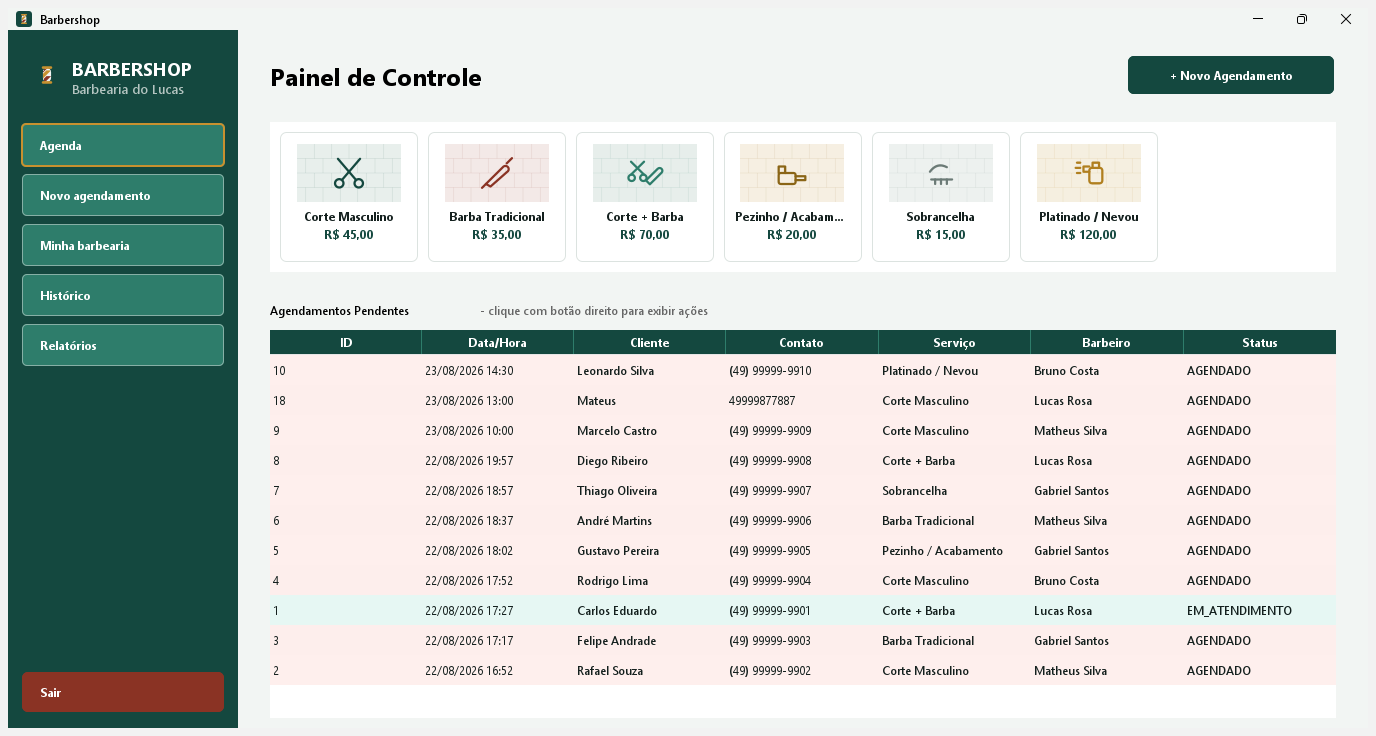
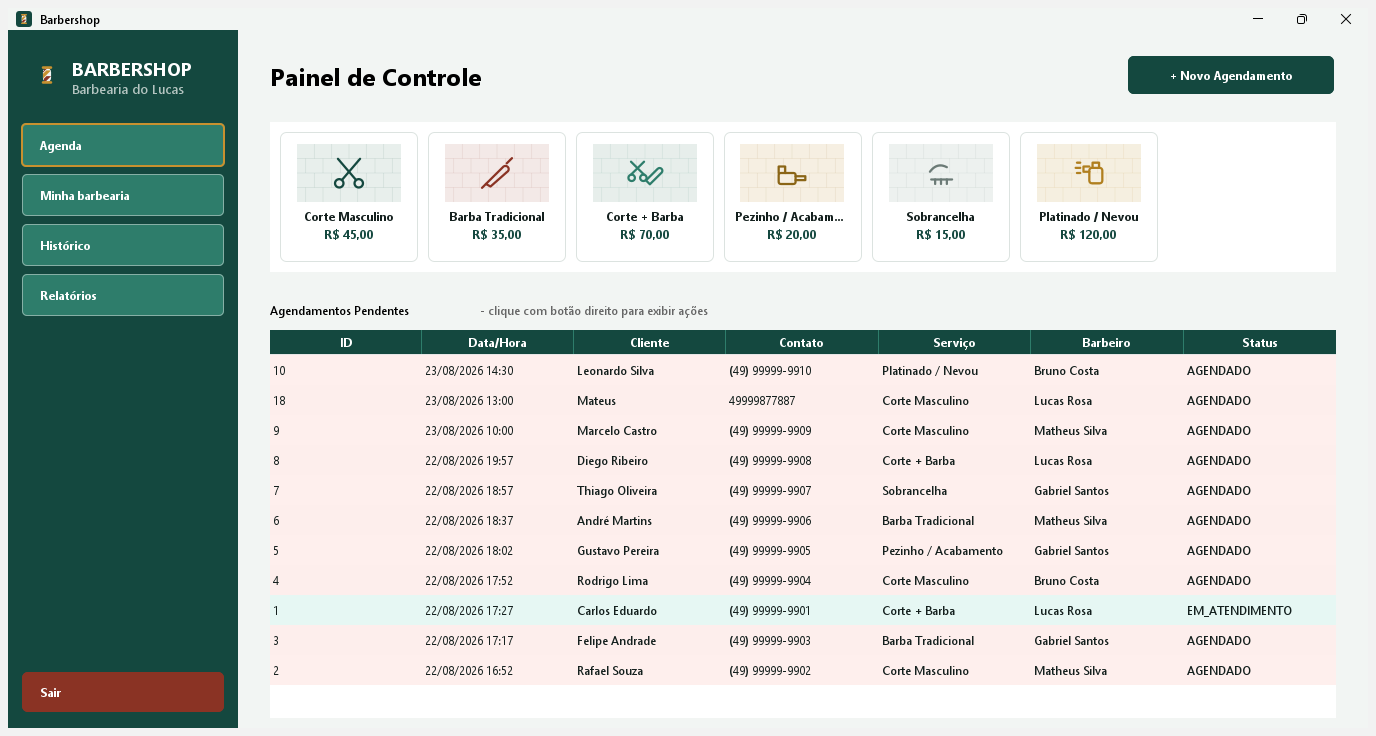
style(desktop): remover novo agendamento do menu lateral

diff --git a/desktop/src/main/java/br/com/barbershop/ui/TelaHome.java b/desktop/src/main/java/br/com/barbershop/ui/TelaHome.java
@@ -57,7 +57,6 @@ public class TelaHome extends javax.swing.JFrame {
     private final RelatorioController relatorioController;
     private final JLabel lblMarcaNome = new JLabel("BARBERSHOP");
     private final JLabel lblMarcaBarbearia = new JLabel("Barbearia do Lucas");
-    private final JButton btnMenuNovoAgendamento = new JButton("Novo agendamento");
     private String cardAtual = "cardHome";
 
     /**
@@ -134,7 +133,7 @@ public class TelaHome extends javax.swing.JFrame {
         UIUtil.aplicarEstiloCampo(txtRelatorioDe);
         UIUtil.aplicarEstiloCampo(txtRelatorioAte);
 
-        JButton[] botoesMenu = {btnHome, btnMenuNovoAgendamento, btnMinhaBarbearia, btnHistorico, btnRelatorios};
+        JButton[] botoesMenu = {btnHome, btnMinhaBarbearia, btnHistorico, btnRelatorios};
         for (JButton btn : botoesMenu) {
             UIUtil.estilizarBotaoMenu(btn, false);
             btn.setHorizontalAlignment(SwingConstants.LEFT);
@@ -242,15 +241,12 @@ public class TelaHome extends javax.swing.JFrame {
         pnlSideMenu.add(lblMarcaBarbearia, new org.netbeans.lib.awtextra.AbsoluteConstraints(64, 48, 150, 22));
 
         btnHome.setText("Agenda");
-        btnMenuNovoAgendamento.setText("Novo agendamento");
-        btnMenuNovoAgendamento.addActionListener(this::btnAgendarActionPerformed);
         btnMinhaBarbearia.setText("Minha barbearia");
 
         pnlSideMenu.add(btnHome, new org.netbeans.lib.awtextra.AbsoluteConstraints(12, 92, 206, 46));
-        pnlSideMenu.add(btnMenuNovoAgendamento, new org.netbeans.lib.awtextra.AbsoluteConstraints(12, 142, 206, 46));
-        pnlSideMenu.add(btnMinhaBarbearia, new org.netbeans.lib.awtextra.AbsoluteConstraints(12, 192, 206, 46));
-        pnlSideMenu.add(btnHistorico, new org.netbeans.lib.awtextra.AbsoluteConstraints(12, 242, 206, 46));
-        pnlSideMenu.add(btnRelatorios, new org.netbeans.lib.awtextra.AbsoluteConstraints(12, 292, 206, 46));
+        pnlSideMenu.add(btnMinhaBarbearia, new org.netbeans.lib.awtextra.AbsoluteConstraints(12, 142, 206, 46));
+        pnlSideMenu.add(btnHistorico, new org.netbeans.lib.awtextra.AbsoluteConstraints(12, 192, 206, 46));
+        pnlSideMenu.add(btnRelatorios, new org.netbeans.lib.awtextra.AbsoluteConstraints(12, 242, 206, 46));
         pnlSideMenu.add(btnSair, new org.netbeans.lib.awtextra.AbsoluteConstraints(12, 640, 206, 44));
     }
 
@@ -278,7 +274,7 @@ public class TelaHome extends javax.swing.JFrame {
     }
 
     private void atualizarMenuAtivo() {
-        JButton[] botoesMenu = {btnHome, btnMenuNovoAgendamento, btnMinhaBarbearia, btnHistorico, btnRelatorios};
+        JButton[] botoesMenu = {btnHome, btnMinhaBarbearia, btnHistorico, btnRelatorios};
         for (JButton btn : botoesMenu) {
             UIUtil.estilizarBotaoMenu(btn, false);
             btn.setHorizontalAlignment(SwingConstants.LEFT);
